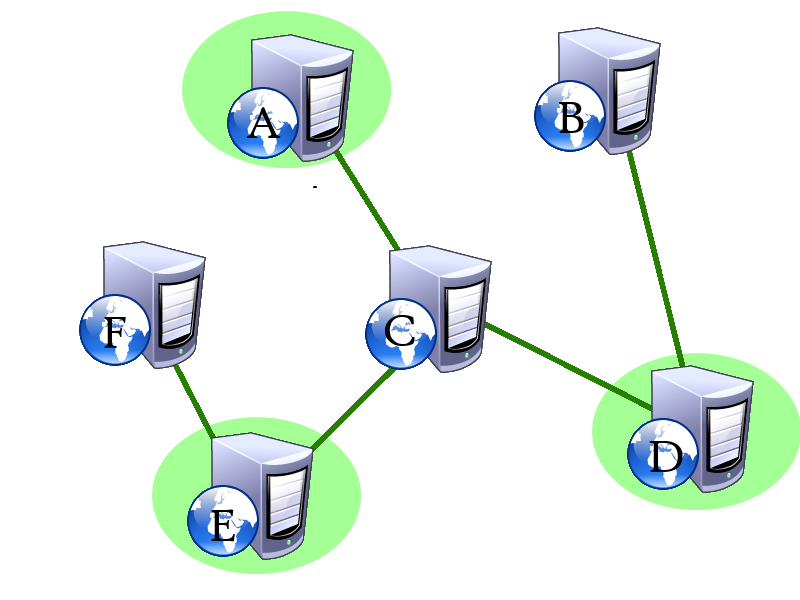
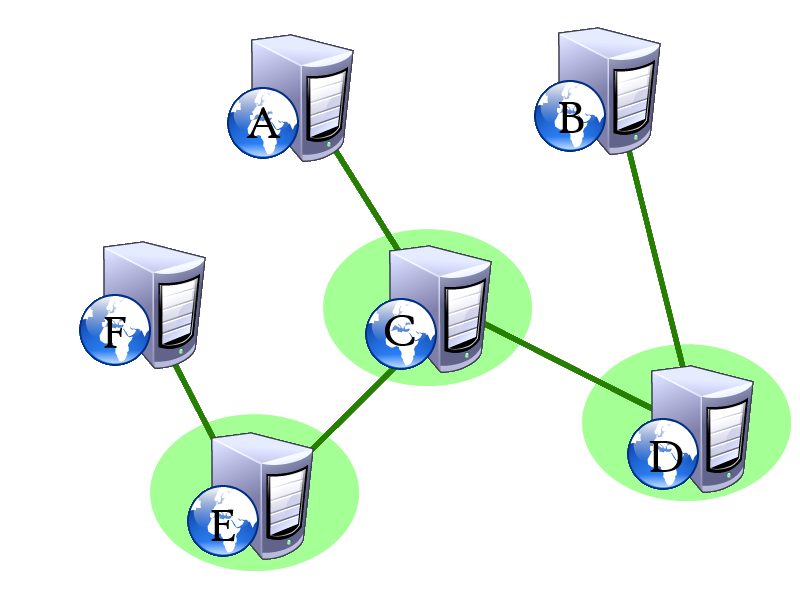
Finishes VC explanation

diff --git a/blog_posts/np-reductions.html b/blog_posts/np-reductions.html
@@ -1,6 +1,6 @@
 <div class="body">
 	<p>
-		Suppose an internet company wishes to install as few monitoring stations as possible to make sure their lines are clean.  Suppose also that a group of friends wishes to order <a href="http://xkcd.com/287/">exactly $15.05</a> worth of appetizers at a local restaurant.  What do these seemingly unrelated problems have in common?  As crazy as it seems, the first type of problem can be turned into problems of the second type - thanks to what is known as a <b>reduction</b>.
+		Suppose an internet company wishes to install software on as few servers as possible to make sure their lines are clean.  Suppose also that a group of friends wishes to order <a href="http://xkcd.com/287/">exactly $15.05</a> worth of appetizers at a local restaurant.  What do these seemingly unrelated problems have in common?  As crazy as it seems, the first type of problem can be turned into problems of the second type - thanks to what is known as a <b>reduction</b>.
 	</p>
 	
 	<p>
@@ -9,7 +9,15 @@
 	
 	<p>
 	Let's look at a more concrete example of each problem before we get to the magic transformation. 
-	Imagine an ISP that has the following 6 servers, with the listed connections
+	Imagine an ISP that has the following 6 servers, with the listed connections.
+	<img style="height:300px" src="/images/servers.png"/>
+	They want to install monitoring software on some of the servers so that every connecting line is attached to at least one server with the software.
+	There are several ways to install the software on three machines to cover the entire network.
+	The following shows two possible ways and one incorrect way.
+	<img style="height:250px" src="/images/covered_servers.png"/>
+	This type of problem is known as a Vertex Cover (VC) problem.  
+	VC problems work with a mathematical <a href="http://en.wikipedia.org/wiki/Graph_(mathematics)">Graph</a>, which consists of vertices and edges.
+	In our problem, the servers are the vertices and the connections are the edges.
 	</p>
 	
 	<p>
